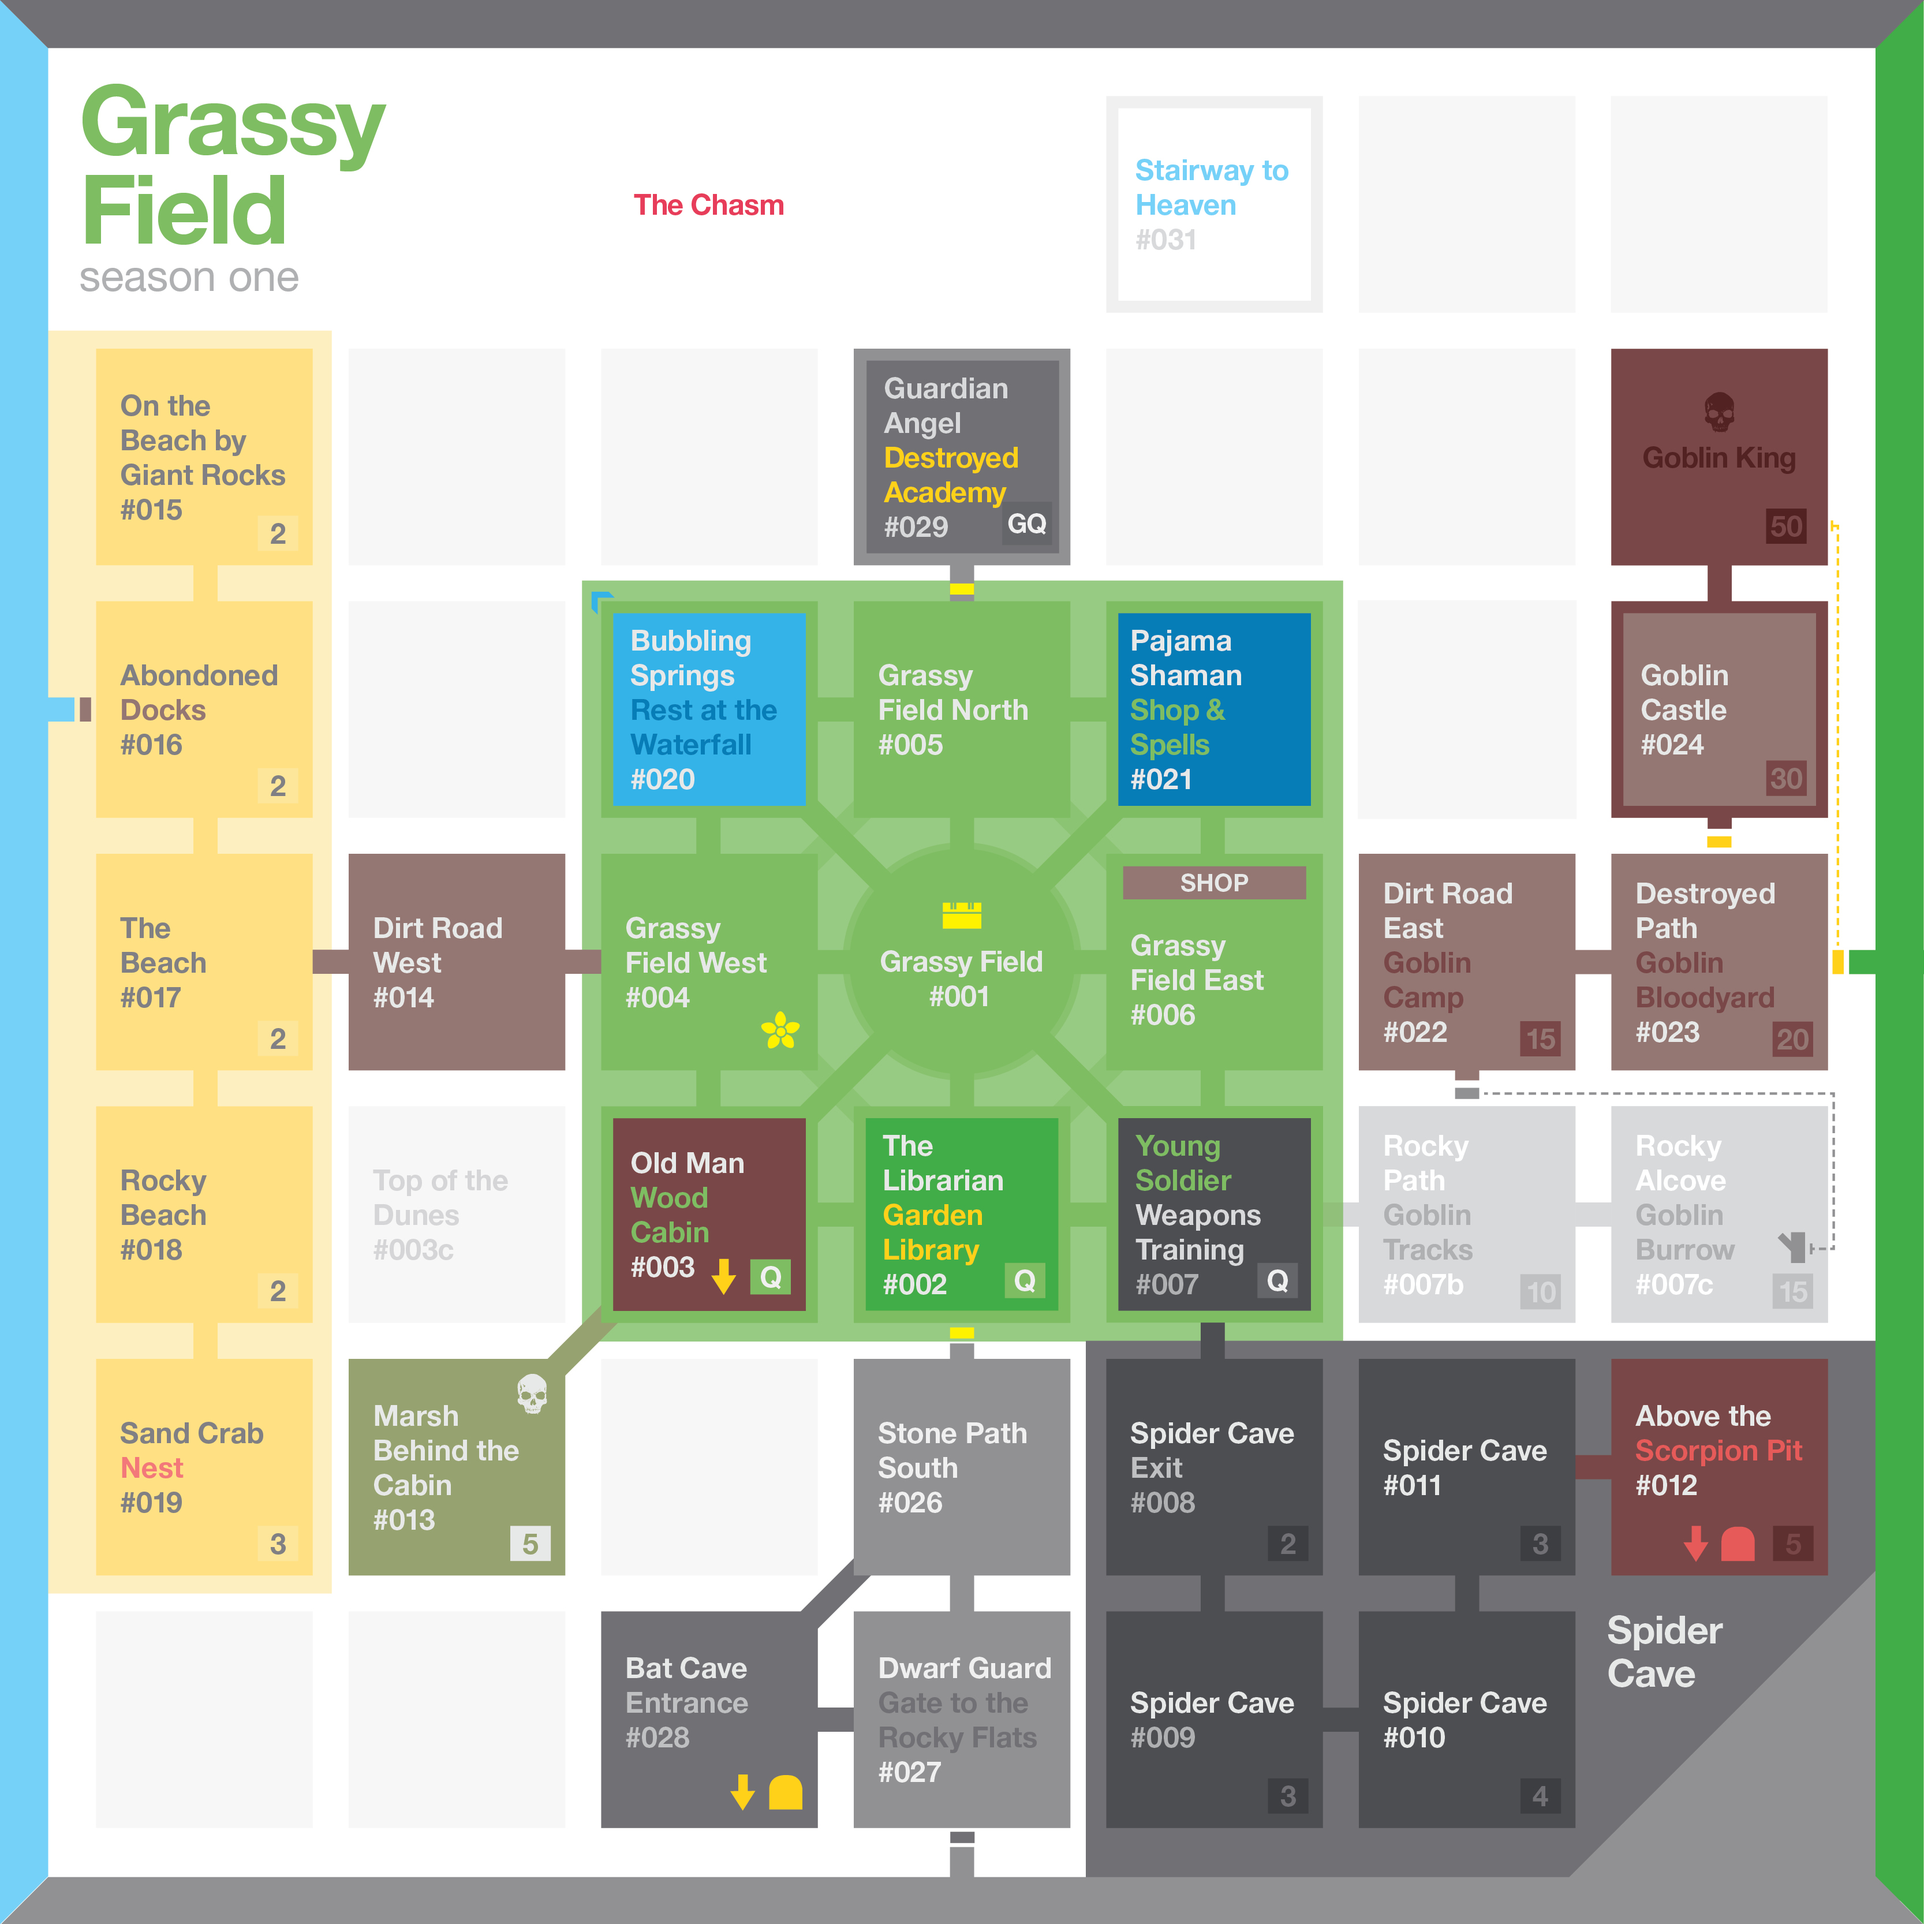
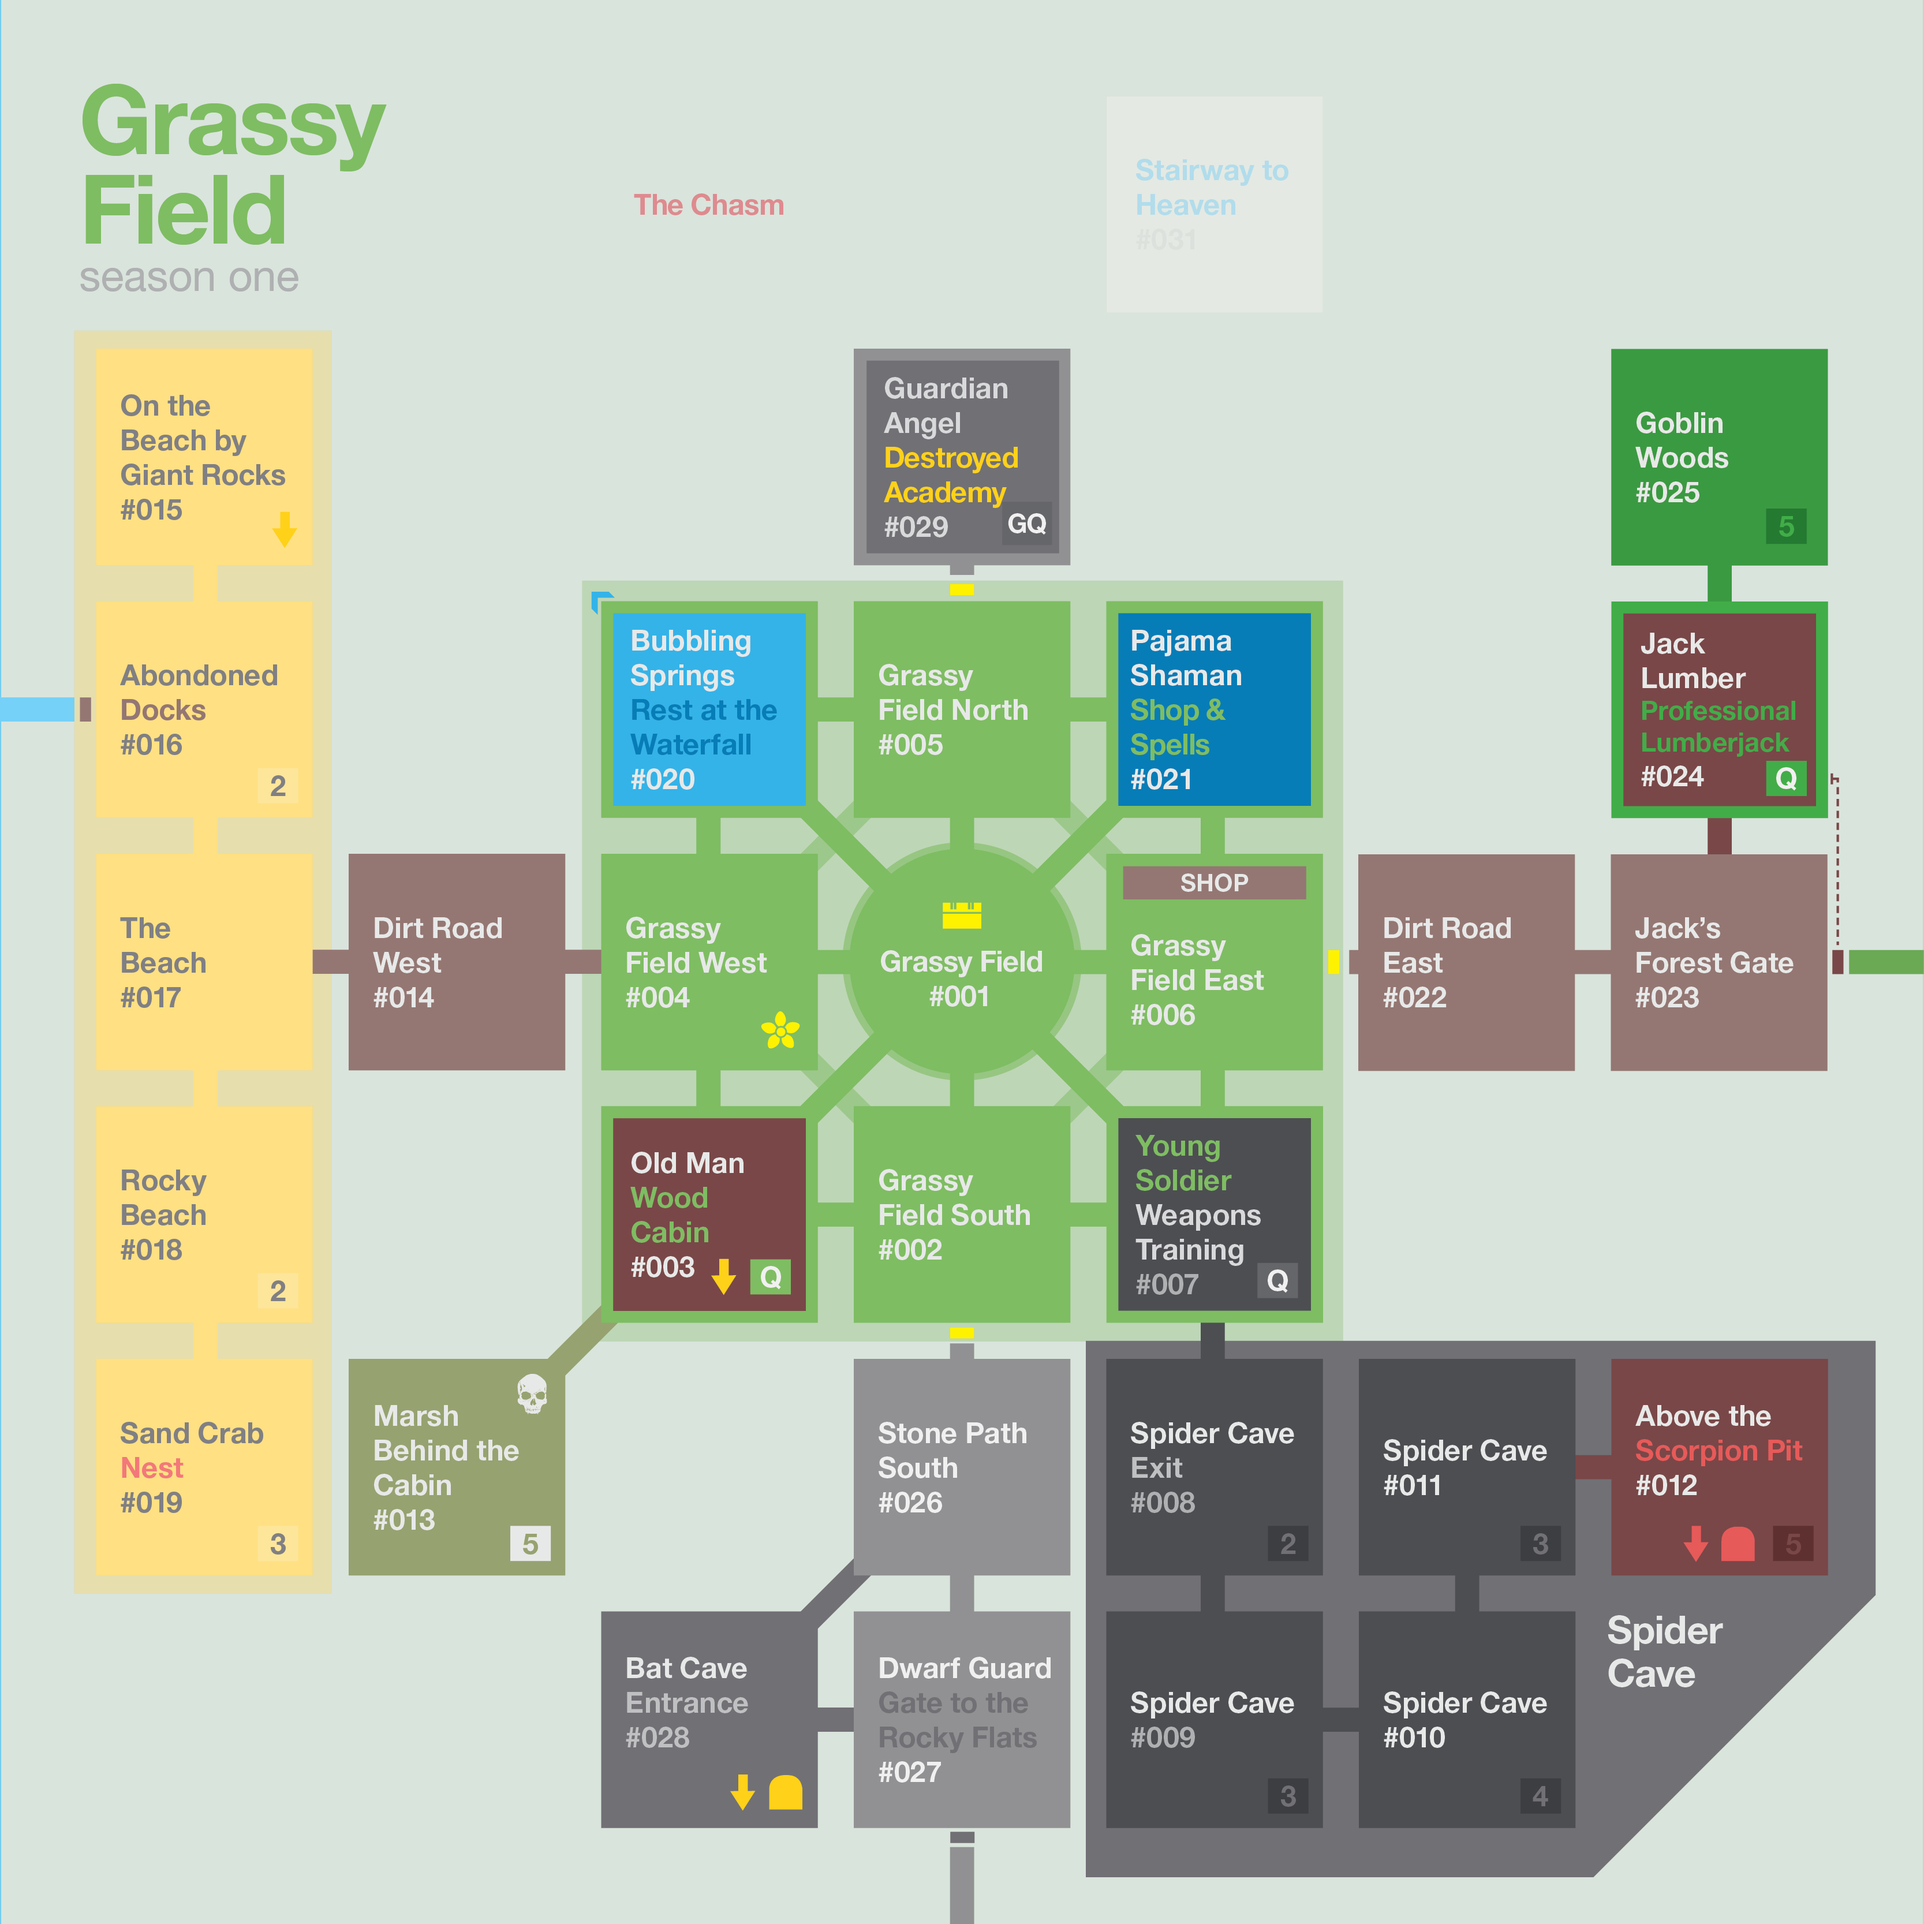
LGU-v0.1.6-forestepic-other fix

diff --git a/prisma/seed.ts b/prisma/seed.ts
@@ -390,7 +390,7 @@ async function main() {
       icon: 'blueberry',
       iconColor: 'blue-500',
       description: 'Blueberry bushes grow in this part of the field. To the west you see a waterfall and to the east an odd tent. To the south you see the main crossroads.',
-      dangerLevel: 0,      north: null,
+      dangerLevel: 0,      north: '029',
       south: '001',
       east: '021',
       west: '020',
@@ -415,7 +415,7 @@ async function main() {
       description: 'A Basic Shop is set up here where you can buy and sell items. To the south is a cave and north is a strange tent. To the far east you see a forest.',
       dangerLevel: 0,      north: '021',
       south: '007',
-      east: null,
+      east: '022',
       west: '001',
       up: null,
       down: null,
@@ -1052,6 +1052,173 @@ async function main() {
       hasFire: false,
       hasCraftingTable: false,
       directionColors: { south: 'gray-600' }
+    },
+    {
+      roomId: '022',
+      name: 'Dirt Road East',
+      subtitle: 'Path to the Forest',
+      subtitlePosition: 'below',
+      nameColor: 'dirt',
+      subtitleColor: 'forest',
+      icon: 'sign2',
+      iconColor: 'dirt',
+      description: 'You are on a dirt path heading towards the forest. To the west you see the grassy field.',
+      dangerLevel: 0,      north: null,
+      south: null,
+      east: '023',
+      west: '006',
+      up: null,
+      down: null,
+      northeast: null,
+      northwest: null,
+      southeast: null,
+      southwest: null,
+      hasFire: false,
+      hasCraftingTable: false,
+      directionColors: { west: 'grass', east: 'forest' }
+    },
+    {
+      roomId: '023',
+      name: "Jack's Forest Gate",
+      subtitle: '',
+      subtitlePosition: 'below',
+      nameColor: 'forest',
+      subtitleColor: 'gray-400',
+      icon: 'gate',
+      iconColor: 'dirt',
+      description: 'A guard dressed in all red stands in front of the Forest Entrance. To the north you see a log cabin. The forest lies to the east.',
+      dangerLevel: 0,      north: '024',
+      south: null,
+      east: '101',
+      west: '022',
+      up: null,
+      down: null,
+      northeast: null,
+      northwest: null,
+      southeast: null,
+      southwest: null,
+      hasFire: false,
+      hasCraftingTable: false,
+      directionColors: { west: 'dirt', north: 'forest', east: 'forest' }
+    },
+    {
+      roomId: '024',
+      name: 'Jack Lumber',
+      subtitle: 'Professional Lumberjack',
+      subtitlePosition: 'below',
+      nameColor: 'forest',
+      subtitleColor: 'dirt',
+      icon: 'npc-jacklumber',
+      iconColor: 'forest',
+      description: 'A flannel wearing, hatchet wielding man has a wood workshop set up here. He runs the tree farm to the north and has a few quests available. Completing his quests will open up the Forest.',
+      dangerLevel: 0,      north: '025',
+      south: '023',
+      east: null,
+      west: null,
+      up: null,
+      down: null,
+      northeast: null,
+      northwest: null,
+      southeast: null,
+      southwest: null,
+      hasFire: false,
+      hasCraftingTable: false,
+      directionColors: { south: 'dirt', north: 'forest' }
+    },
+    {
+      roomId: '025',
+      name: 'Goblin Woods',
+      subtitle: '',
+      subtitlePosition: 'below',
+      nameColor: 'forest',
+      subtitleColor: 'gray-400',
+      icon: 'treefarm',
+      iconColor: 'forest',
+      description: 'Dense trees surround a small clearing. Goblin tracks crisscross the muddy ground and crude claw marks scar the bark of nearby trunks.',
+      dangerLevel: 5,      north: null,
+      south: '024',
+      east: null,
+      west: null,
+      up: null,
+      down: null,
+      northeast: null,
+      northwest: null,
+      southeast: null,
+      southwest: null,
+      hasFire: false,
+      hasCraftingTable: false,
+      directionColors: { south: 'forest' }
+    },
+    {
+      roomId: '029',
+      name: 'Guardian Angel',
+      subtitle: 'Destroyed Academy',
+      subtitlePosition: 'below',
+      nameColor: 'neutral-200',
+      subtitleColor: 'red-500',
+      icon: 'environment-destroyed-academy',
+      iconColor: 'gray-500',
+      description: 'The shattered remains of a once majestic academy now stand, its crumbling walls revealing a labyrinth of broken archways, tattered banners, and fallen stone.',
+      dangerLevel: 0,      north: null,
+      south: '005',
+      east: null,
+      west: null,
+      up: null,
+      down: null,
+      northeast: null,
+      northwest: null,
+      southeast: null,
+      southwest: null,
+      hasFire: false,
+      hasCraftingTable: false,
+      directionColors: { south: 'grass' }
+    },
+    {
+      roomId: '031',
+      name: 'Stairway to Heaven',
+      subtitle: '',
+      subtitlePosition: 'below',
+      nameColor: 'blue-300',
+      subtitleColor: 'gray-400',
+      icon: 'sun',
+      iconColor: 'yellow-400',
+      description: 'A shimmering stairway spirals upward into the clouds, bathed in golden light. The air feels warm and still.',
+      dangerLevel: 0,      north: null,
+      south: null,
+      east: null,
+      west: null,
+      up: null,
+      down: null,
+      northeast: null,
+      northwest: null,
+      southeast: null,
+      southwest: null,
+      hasFire: false,
+      hasCraftingTable: false
+    },
+    {
+      roomId: '101',
+      name: 'Forest Path',
+      subtitle: '',
+      subtitlePosition: 'below',
+      nameColor: 'forest',
+      subtitleColor: 'gray-400',
+      icon: 'treefarm',
+      iconColor: 'forest',
+      description: 'On a path through the Forest. Go west to return to the Grassy Field.',
+      dangerLevel: 2,      north: null,
+      south: null,
+      east: null,
+      west: '023',
+      up: null,
+      down: null,
+      northeast: null,
+      northwest: null,
+      southeast: '102',
+      southwest: null,
+      hasFire: false,
+      hasCraftingTable: false,
+      directionColors: { west: 'dirt', southeast: 'forest' }
     },
     {
       roomId: '999',

diff --git a/server.js b/server.js
@@ -1,3 +1,4 @@
+require('dotenv').config()
 const { createServer } = require('http')
 const { parse } = require('url')
 const next = require('next')
